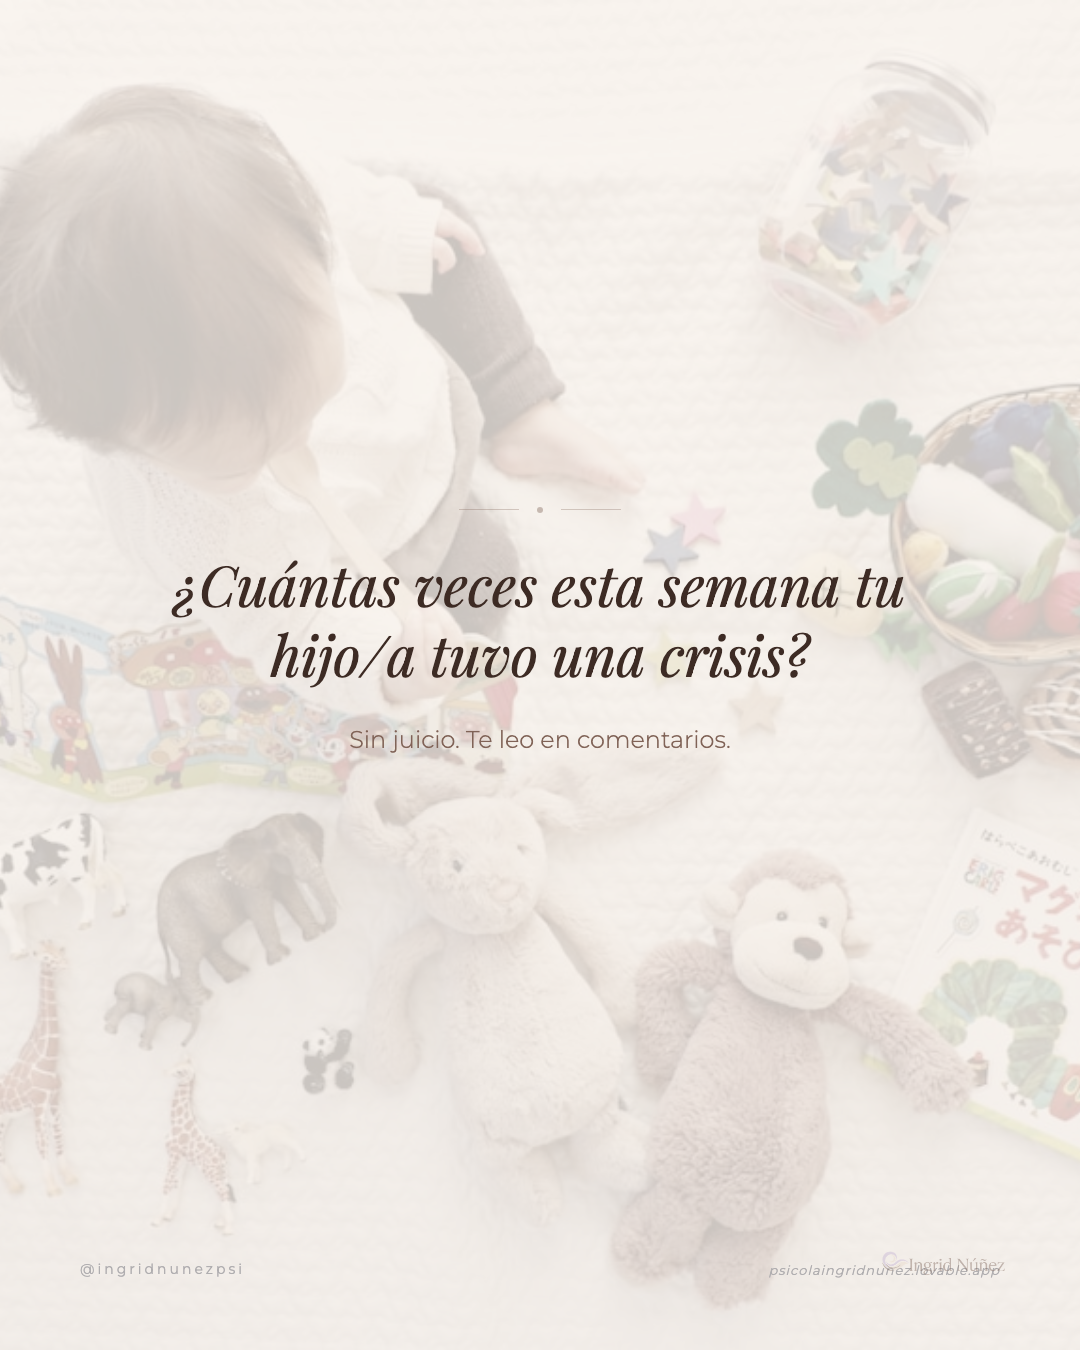
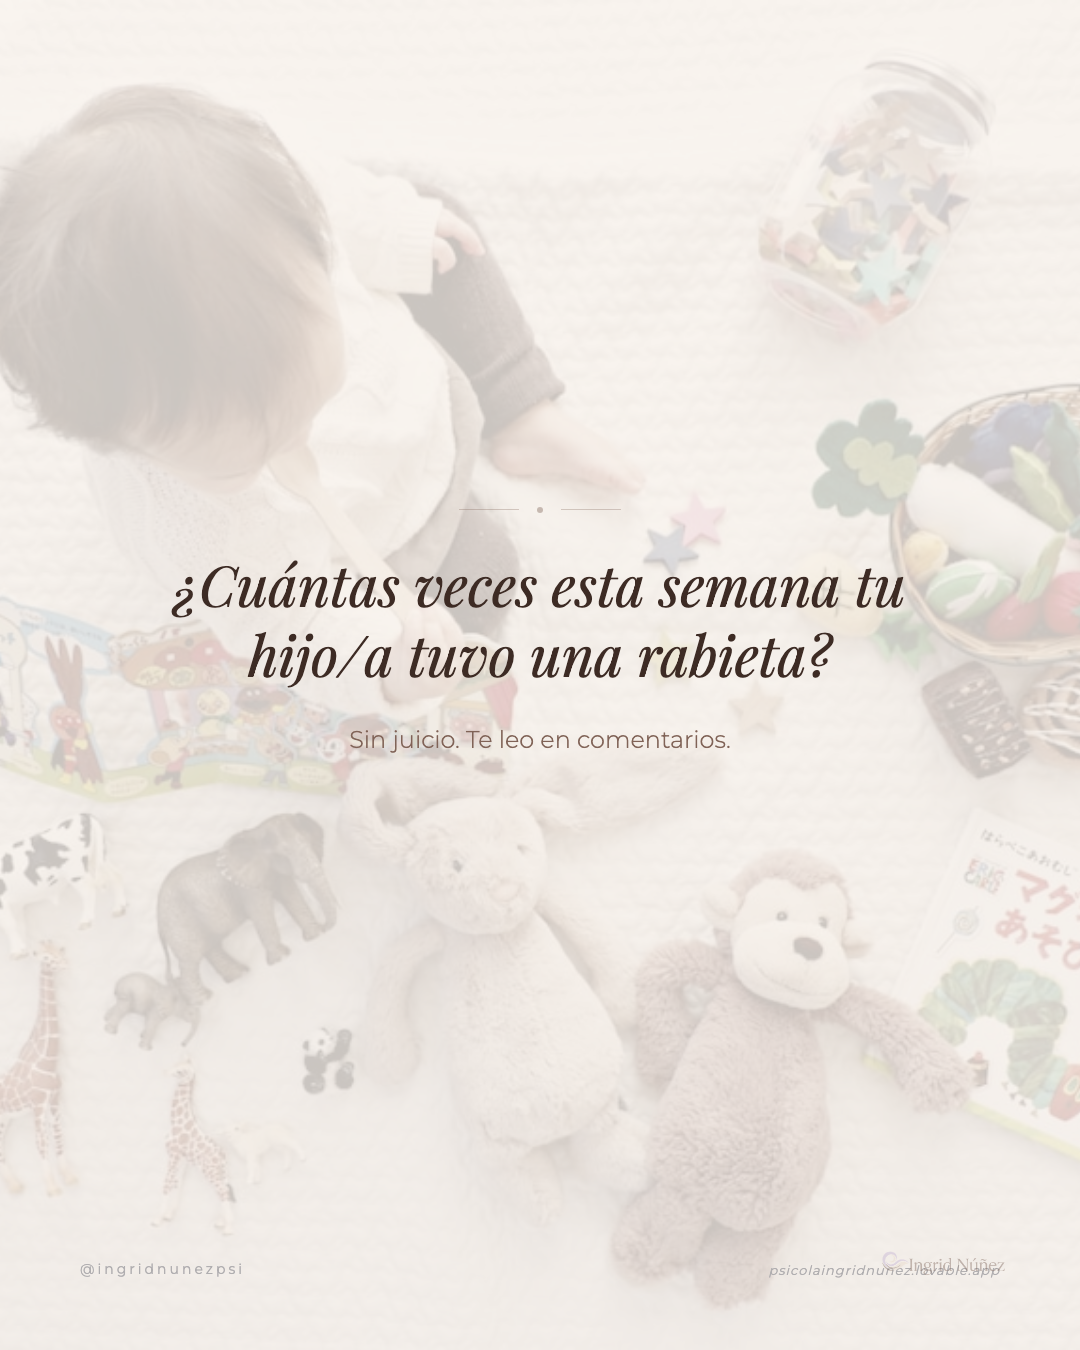
[FIX] C03 última slide: crisis → rabieta

Changed region(s): [[0.2139, 0.4667, 0.7639, 0.5289]]

diff --git a/CARRUSELES/C03-MAR16-RABIETAS.html b/CARRUSELES/C03-MAR16-RABIETAS.html
@@ -419,7 +419,7 @@ body { width:1080px; background:#1a1a1a; }
       <div class="div-dot" style="background:#806357;opacity:.4;"></div>
       <div class="div-line" style="background:rgba(128,99,87,.3);"></div>
     </div>
-    <p class="cta-question">¿Cuántas veces esta semana tu hijo/a tuvo una crisis?</p>
+    <p class="cta-question">¿Cuántas veces esta semana tu hijo/a tuvo una rabieta?</p>
     <p class="cta-sub">Sin juicio. Te leo en comentarios.</p>
   </div>
   <div class="cta-footer" style="position:relative;z-index:2;">
